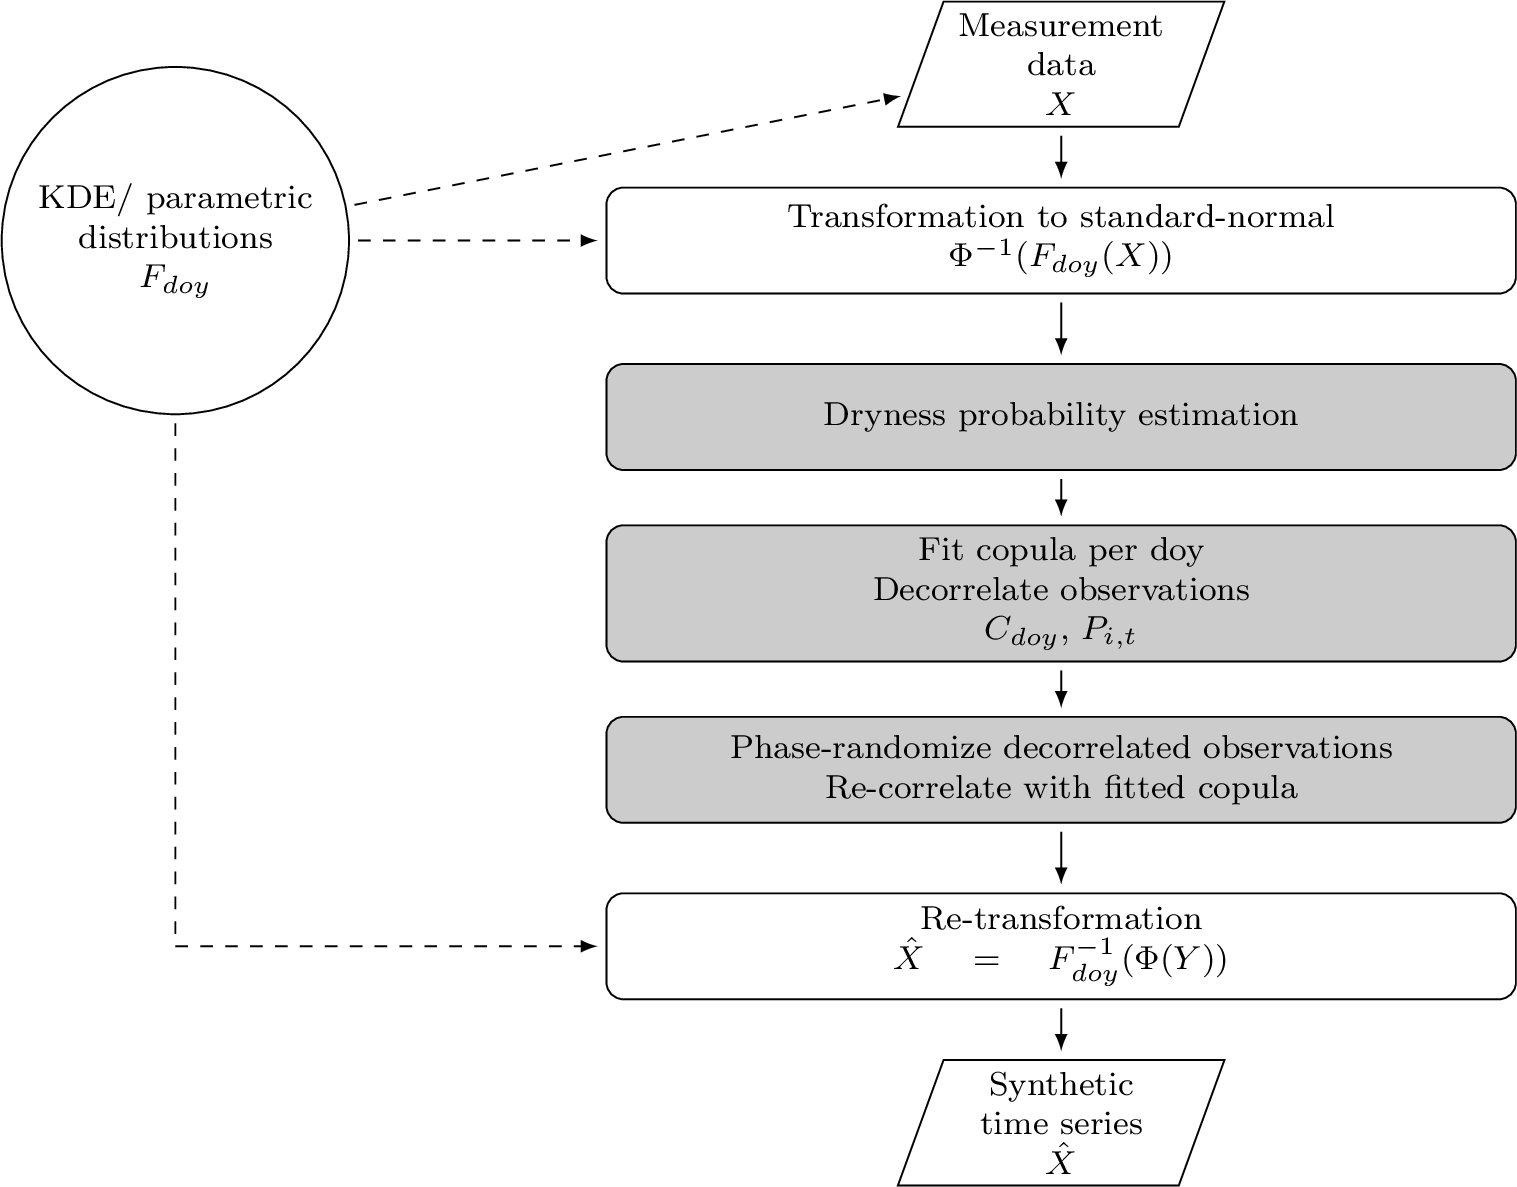
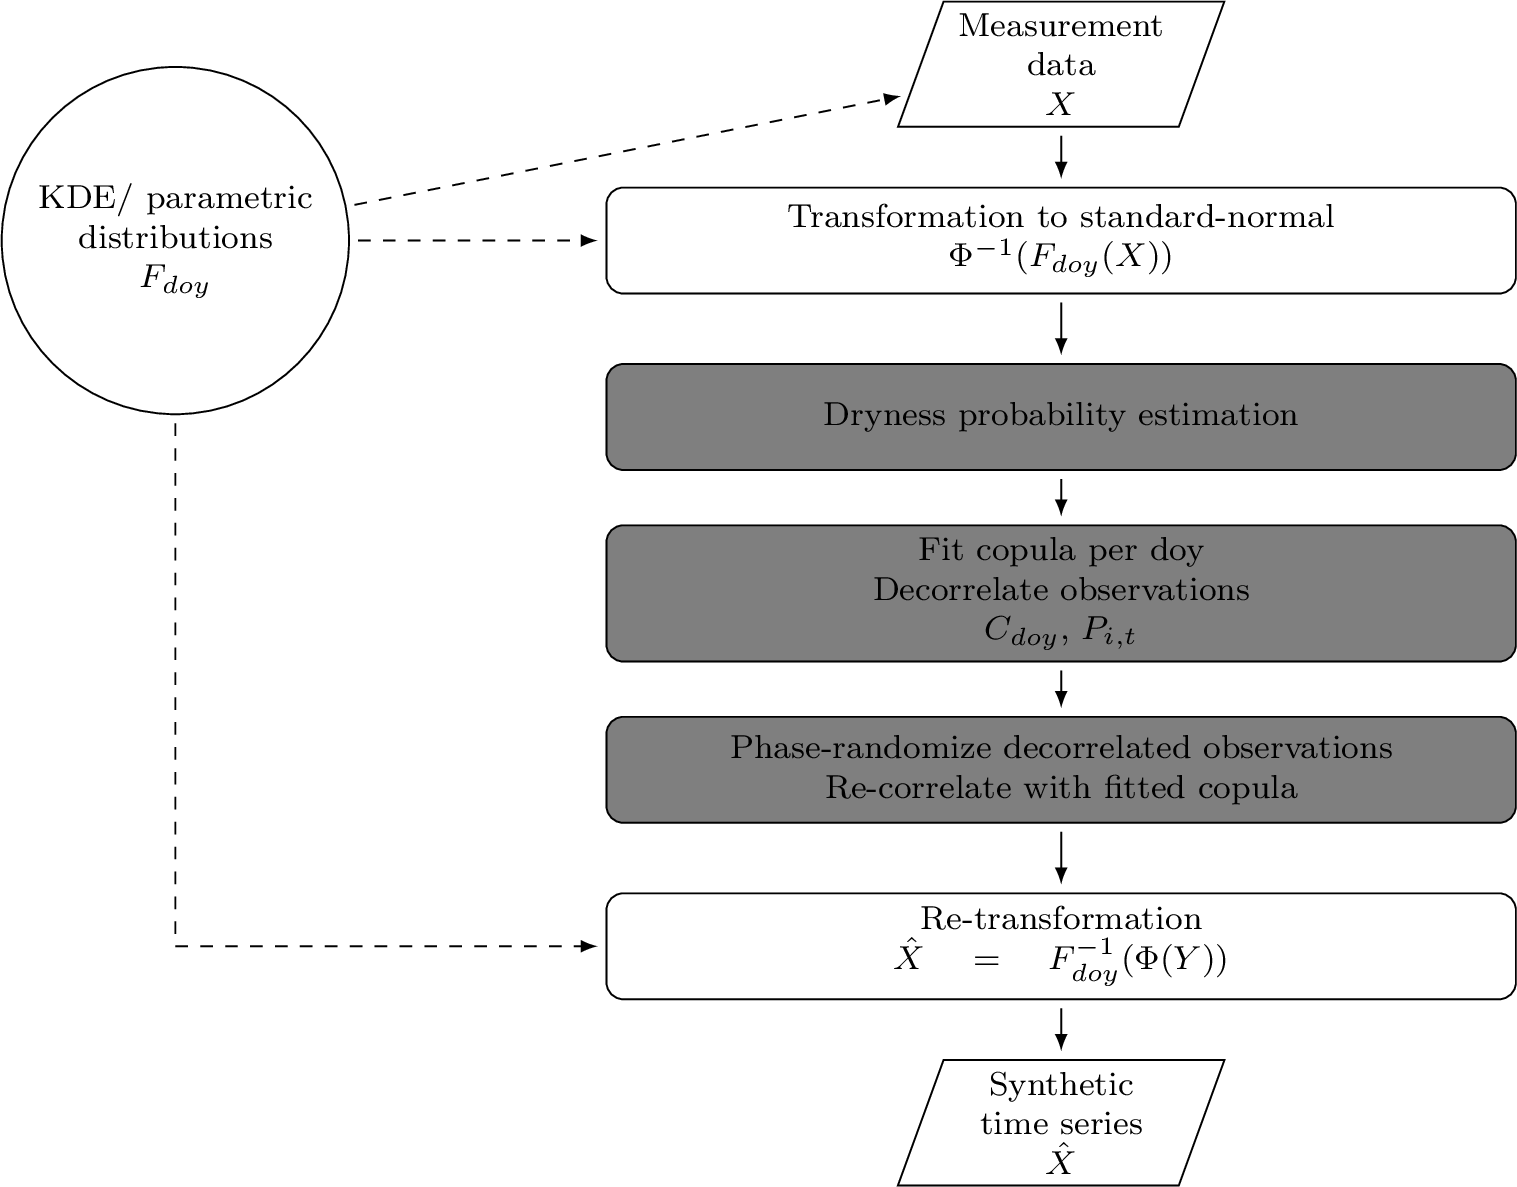
docs: Update flowchart styling and image

Changed region(s): [[0.4028, 0.4364, 1.0, 0.5611], [0.4028, 0.5922, 1.0, 0.7169], [0.4028, 0.2805, 1.0, 0.4052]]

diff --git a/docs/flowchart.tex b/docs/flowchart.tex
@@ -11,24 +11,25 @@
   \newcommand{\nodehdistance}{7.5cm}
   \newcommand{\minheight}{3em}
 
-  \tikzstyle{block} = [rectangle, draw, text width=\blockwidth,
-  text centered, rounded corners, minimum height=\minheight]
-
-  \tikzstyle{normblock} = [rectangle, draw, fill=gray!40, text
+  \tikzstyle{block} = [rectangle, draw, fill=white, text
   width=\blockwidth, text centered, rounded corners, minimum
   height=\minheight]
 
-  \tikzstyle{rainblock} = [rectangle, draw, fill=blue!40, text
+  \tikzstyle{normblock} = [rectangle, draw, fill=gray, text
   width=\blockwidth, text centered, rounded corners, minimum
   height=\minheight]
 
-  \tikzstyle{cloud} = [draw, circle, text centered, text
+  \tikzstyle{rainblock} = [rectangle, draw, fill=blue, text
+  width=\blockwidth, text centered, rounded corners, minimum
+  height=\minheight]
+
+  \tikzstyle{cloud} = [draw, circle, fill=white, text centered, text
   width=\cloudwidth, node distance=\nodehdistance, minimum
   height=\minheight]
 
   \tikzstyle{io} = [trapezium, trapezium left angle=70, trapezium
   right angle=110, text width=6em, minimum height=2em, text
-  centered, draw=black]
+  centered, draw=black, fill=white]
 
   \tikzstyle{line} = [draw, -latex, shorten >=2pt, shorten <=2pt]
 
